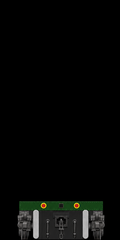
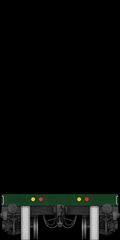
Refactor remastering script to enhance image processing and improve prompt handling

Changed region(s): [[0.0, 0.7875, 1.0, 1.0]]

diff --git a/scripts/remaster_textures.py b/scripts/remaster_textures.py
@@ -97,9 +97,12 @@ FLAT_TEMPLATE = (
     "recover plausible fine detail (panel seams, rivets, window frames, paint, "
     "metal surfaces), and produce NO pixelation, blockiness or jagged/aliased edges. "
     "Do NOT add new parts, new views, extra vehicles or imagined detail. Preserve "
-    "the original layout, proportions, orientation and framing EXACTLY, edge to edge "
-    "— do not move, crop, rescale, re-centre or tilt the content, and do not add "
-    "borders or margins. Keep every marking, logo, number and text string in its "
+    "the original layout, proportions, orientation and framing EXACTLY. Match the "
+    "input's framing one-to-one: FILL the output frame exactly as the input fills "
+    "its own frame, all the way to every edge and corner. Do NOT zoom in, crop, "
+    "shrink or re-centre the subject, and do NOT add any margins, borders or "
+    "background bars — if the input content runs to the edges, the output must too. "
+    "Keep every marking, logo, number and text string in its "
     "original position and shape. The result must read as the SAME flat texture "
     "sheet at higher resolution, never a 3D picture of a train."
 )
@@ -229,49 +232,6 @@ def pick_size(w: int, h: int) -> str:
     return SIZE_SQUARE
 
 
-def size_ratio(size: str) -> float:
-    """W/H of a 'WxH' size string."""
-    w, h = (int(x) for x in size.split("x"))
-    return w / h
-
-
-def pad_to_ratio(img: Image.Image, ratio: float) -> tuple[Image.Image, tuple[float, float, float, float]]:
-    """Letterbox ``img`` with black to the given W/H ``ratio``.
-
-    Returns the padded image plus the content box as fractions
-    ``(left, top, right, bottom)`` of the padded canvas. Because the source is
-    only ever padded (never cropped or distorted), the model edits the content
-    in place and the very same fractional box can be cropped back out of the
-    output afterwards — so the result keeps the source's exact aspect with no
-    content lost.
-    """
-    img = img.convert("RGB")
-    w, h = img.size
-    cur = w / h
-    if cur < ratio:  # too narrow -> add width (vertical bars)
-        new_w = max(w, round(h * ratio))
-        left = (new_w - w) // 2
-        canvas = Image.new("RGB", (new_w, h), (0, 0, 0))
-        canvas.paste(img, (left, 0))
-        return canvas, (left / new_w, 0.0, (left + w) / new_w, 1.0)
-    if cur > ratio:  # too wide -> add height (horizontal bars)
-        new_h = max(h, round(w / ratio))
-        top = (new_h - h) // 2
-        canvas = Image.new("RGB", (w, new_h), (0, 0, 0))
-        canvas.paste(img, (0, top))
-        return canvas, (0.0, top / new_h, 1.0, (top + h) / new_h)
-    return img, (0.0, 0.0, 1.0, 1.0)
-
-
-def crop_fraction_resize(img: Image.Image, box: tuple[float, float, float, float],
-                         tw: int, th: int) -> Image.Image:
-    """Crop ``img`` to the fractional ``box`` then LANCZOS-resize to (tw, th)."""
-    img = img.convert("RGB")
-    w, h = img.size
-    crop = (round(box[0] * w), round(box[1] * h), round(box[2] * w), round(box[3] * h))
-    return img.crop(crop).resize((tw, th), Image.LANCZOS)
-
-
 def apply_black_mask(final: Image.Image, source: Image.Image, threshold: int = 16) -> Image.Image:
     """Force the large empty (near-black) UV regions of ``source`` back to black.
 
@@ -389,7 +349,8 @@ def save_manifest(path: Path, manifest: dict) -> None:
 # Pass 1: read shared facts (numbers/markings) from all of a model's sheets
 # ---------------------------------------------------------------------------
 
-VISION_MODEL = "gpt-4o-mini"
+VISION_MODEL = "gpt-4o"  # better at reading tiny digits than -mini
+VISION_UPSCALE_W = 512   # enlarge each tiny sheet before sending so text is legible
 
 FACTS_PROMPT = (
     "These images are the low-resolution texture sheets of a single old 3D train "
@@ -413,8 +374,14 @@ def read_model_facts(textures: list[Path], client) -> str:
     try:
         content: list[dict] = [{"type": "text", "text": FACTS_PROMPT}]
         for t in textures:
-            png, _ = bmp_to_png_bytes(t)
-            b64 = base64.b64encode(png).decode("ascii")
+            img = Image.open(t).convert("RGB")
+            # Upscale tiny sheets so the vision model can actually read the digits.
+            if img.width < VISION_UPSCALE_W:
+                scale = VISION_UPSCALE_W / img.width
+                img = img.resize((VISION_UPSCALE_W, max(1, round(img.height * scale))), Image.LANCZOS)
+            buf = io.BytesIO()
+            img.save(buf, "PNG")
+            b64 = base64.b64encode(buf.getvalue()).decode("ascii")
             content.append({"type": "text", "text": f"Sheet: {t.name}"})
             content.append({
                 "type": "image_url",
@@ -497,10 +464,6 @@ def process_texture(
 
     original = Image.open(io.BytesIO(primary_png)).convert("RGB")
     classical = original.resize((tw, th), Image.LANCZOS)
-    # Pad the source to the API output aspect ratio so the model never has to
-    # re-frame the content; the same fractional box is cropped back out below,
-    # giving the exact source aspect at 4x with nothing cut off.
-    padded, content_box = pad_to_ratio(original, size_ratio(size))
 
     if dry_run:
         # No API call: placeholder AI raw from the classical upscale so layout/
@@ -516,17 +479,23 @@ def process_texture(
         return entry
 
     try:
-        padded_png = io.BytesIO()
-        padded.save(padded_png, "PNG")
-        resp = call_openai_edit(client, padded_png.getvalue(), prompt, size, quality)
+        # Pre-resize the source to the exact API output size and send THAT. This
+        # forces the model to fill the whole frame (no letterbox bars, so content
+        # like the x_both cab face stays edge-to-edge), and avoids any crop. The
+        # aspect stretch here is undone when we resize the full output back to the
+        # exact 4x target below — the two resizes cancel, so the final keeps the
+        # source's proportions with nothing cut and no added margins.
+        api_w, api_h = (int(v) for v in size.split("x"))
+        api_input = io.BytesIO()
+        original.resize((api_w, api_h), Image.LANCZOS).save(api_input, "PNG")
+        resp = call_openai_edit(client, api_input.getvalue(), prompt, size, quality)
         b64 = resp.data[0].b64_json
         raw_bytes = base64.b64decode(b64)
         ai_raw = Image.open(io.BytesIO(raw_bytes)).convert("RGB")
 
         out_dir.mkdir(parents=True, exist_ok=True)
         raw_path.write_bytes(raw_bytes)
-        # Crop the padded margins back out, then resize to the exact 4x target.
-        final = crop_fraction_resize(ai_raw, content_box, tw, th)
+        final = ai_raw.resize((tw, th), Image.LANCZOS)
         # Safety net for genuinely-sparse sheets only (gear/pant/...): force the
         # large empty UV regions back to black so the model can't leave invented
         # detail there. Body sheets and the thumbnail are never masked — masking
@@ -572,6 +541,10 @@ def main():
                         help="Skip the API call; still write source/classical/contact/manifest")
     parser.add_argument("--limit", type=int, default=0,
                         help="Cap number of textures processed this run (0 = no cap)")
+    parser.add_argument("--only", default="",
+                        help="Only process the texture with this exact name/stem "
+                             "(e.g. --only x_both, matches x_both.bmp but NOT gearx_both). "
+                             "Saves credits when debugging one texture.")
     args = parser.parse_args()
 
     db_copy = not args.no_db_copy
@@ -611,7 +584,9 @@ def main():
 
     for mi, (_override, model_dir) in enumerate(model_dirs, 1):
         model_rel = str(model_dir.relative_to(_repo_root()))
-        textures = collect_textures(model_dir)
+        all_textures = collect_textures(model_dir)  # full set (always used for facts context)
+        textures = ([t for t in all_textures if args.only in (t.stem, t.name)]
+                    if args.only else all_textures)
         if not textures:
             print(f"[{mi}/{len(model_dirs)}] {model_rel}: no textures, skipping")
             continue
@@ -633,19 +608,24 @@ def main():
         facts = ""
         any_work = (not args.limit or processed < args.limit) and any(_needs_work(t) for t in textures)
         if use_context and any_work and not args.dry_run and client is not None:
+            # Facts always use the FULL sheet set (so --only x_both still gets the
+            # number read from its clearer sibling z_dec); key is stable too.
             facts_key = hashlib.sha256(
-                "".join(sorted(file_content_hash(t) for t in textures)).encode()
+                "".join(sorted(file_content_hash(t) for t in all_textures)).encode()
             ).hexdigest()
             cached = manifest["models"].get(model_rel)
-            if cached and cached.get("facts_key") == facts_key and "facts" in cached:
+            # Reuse only a *successful* (non-empty) cached read; an empty result
+            # was a failure and must be retried, not cached forever.
+            if cached and cached.get("facts_key") == facts_key and cached.get("facts"):
                 facts = cached["facts"]
                 tag = "cached"
             else:
-                print(f"  [facts] reading numbers/markings from {len(textures)} sheet(s)...")
-                facts = read_model_facts(textures, client)
-                manifest["models"][model_rel] = {
-                    "facts": facts, "vision_model": VISION_MODEL, "facts_key": facts_key,
-                }
+                print(f"  [facts] reading numbers/markings from {len(all_textures)} sheet(s)...")
+                facts = read_model_facts(all_textures, client)
+                if facts:  # never cache a failure
+                    manifest["models"][model_rel] = {
+                        "facts": facts, "vision_model": VISION_MODEL, "facts_key": facts_key,
+                    }
                 tag = "read"
             shown = facts.replace("\n", "\n    ") if facts else "(none)"
             print(f"  [facts] ({tag}) {model_rel}:\n    {shown}")
